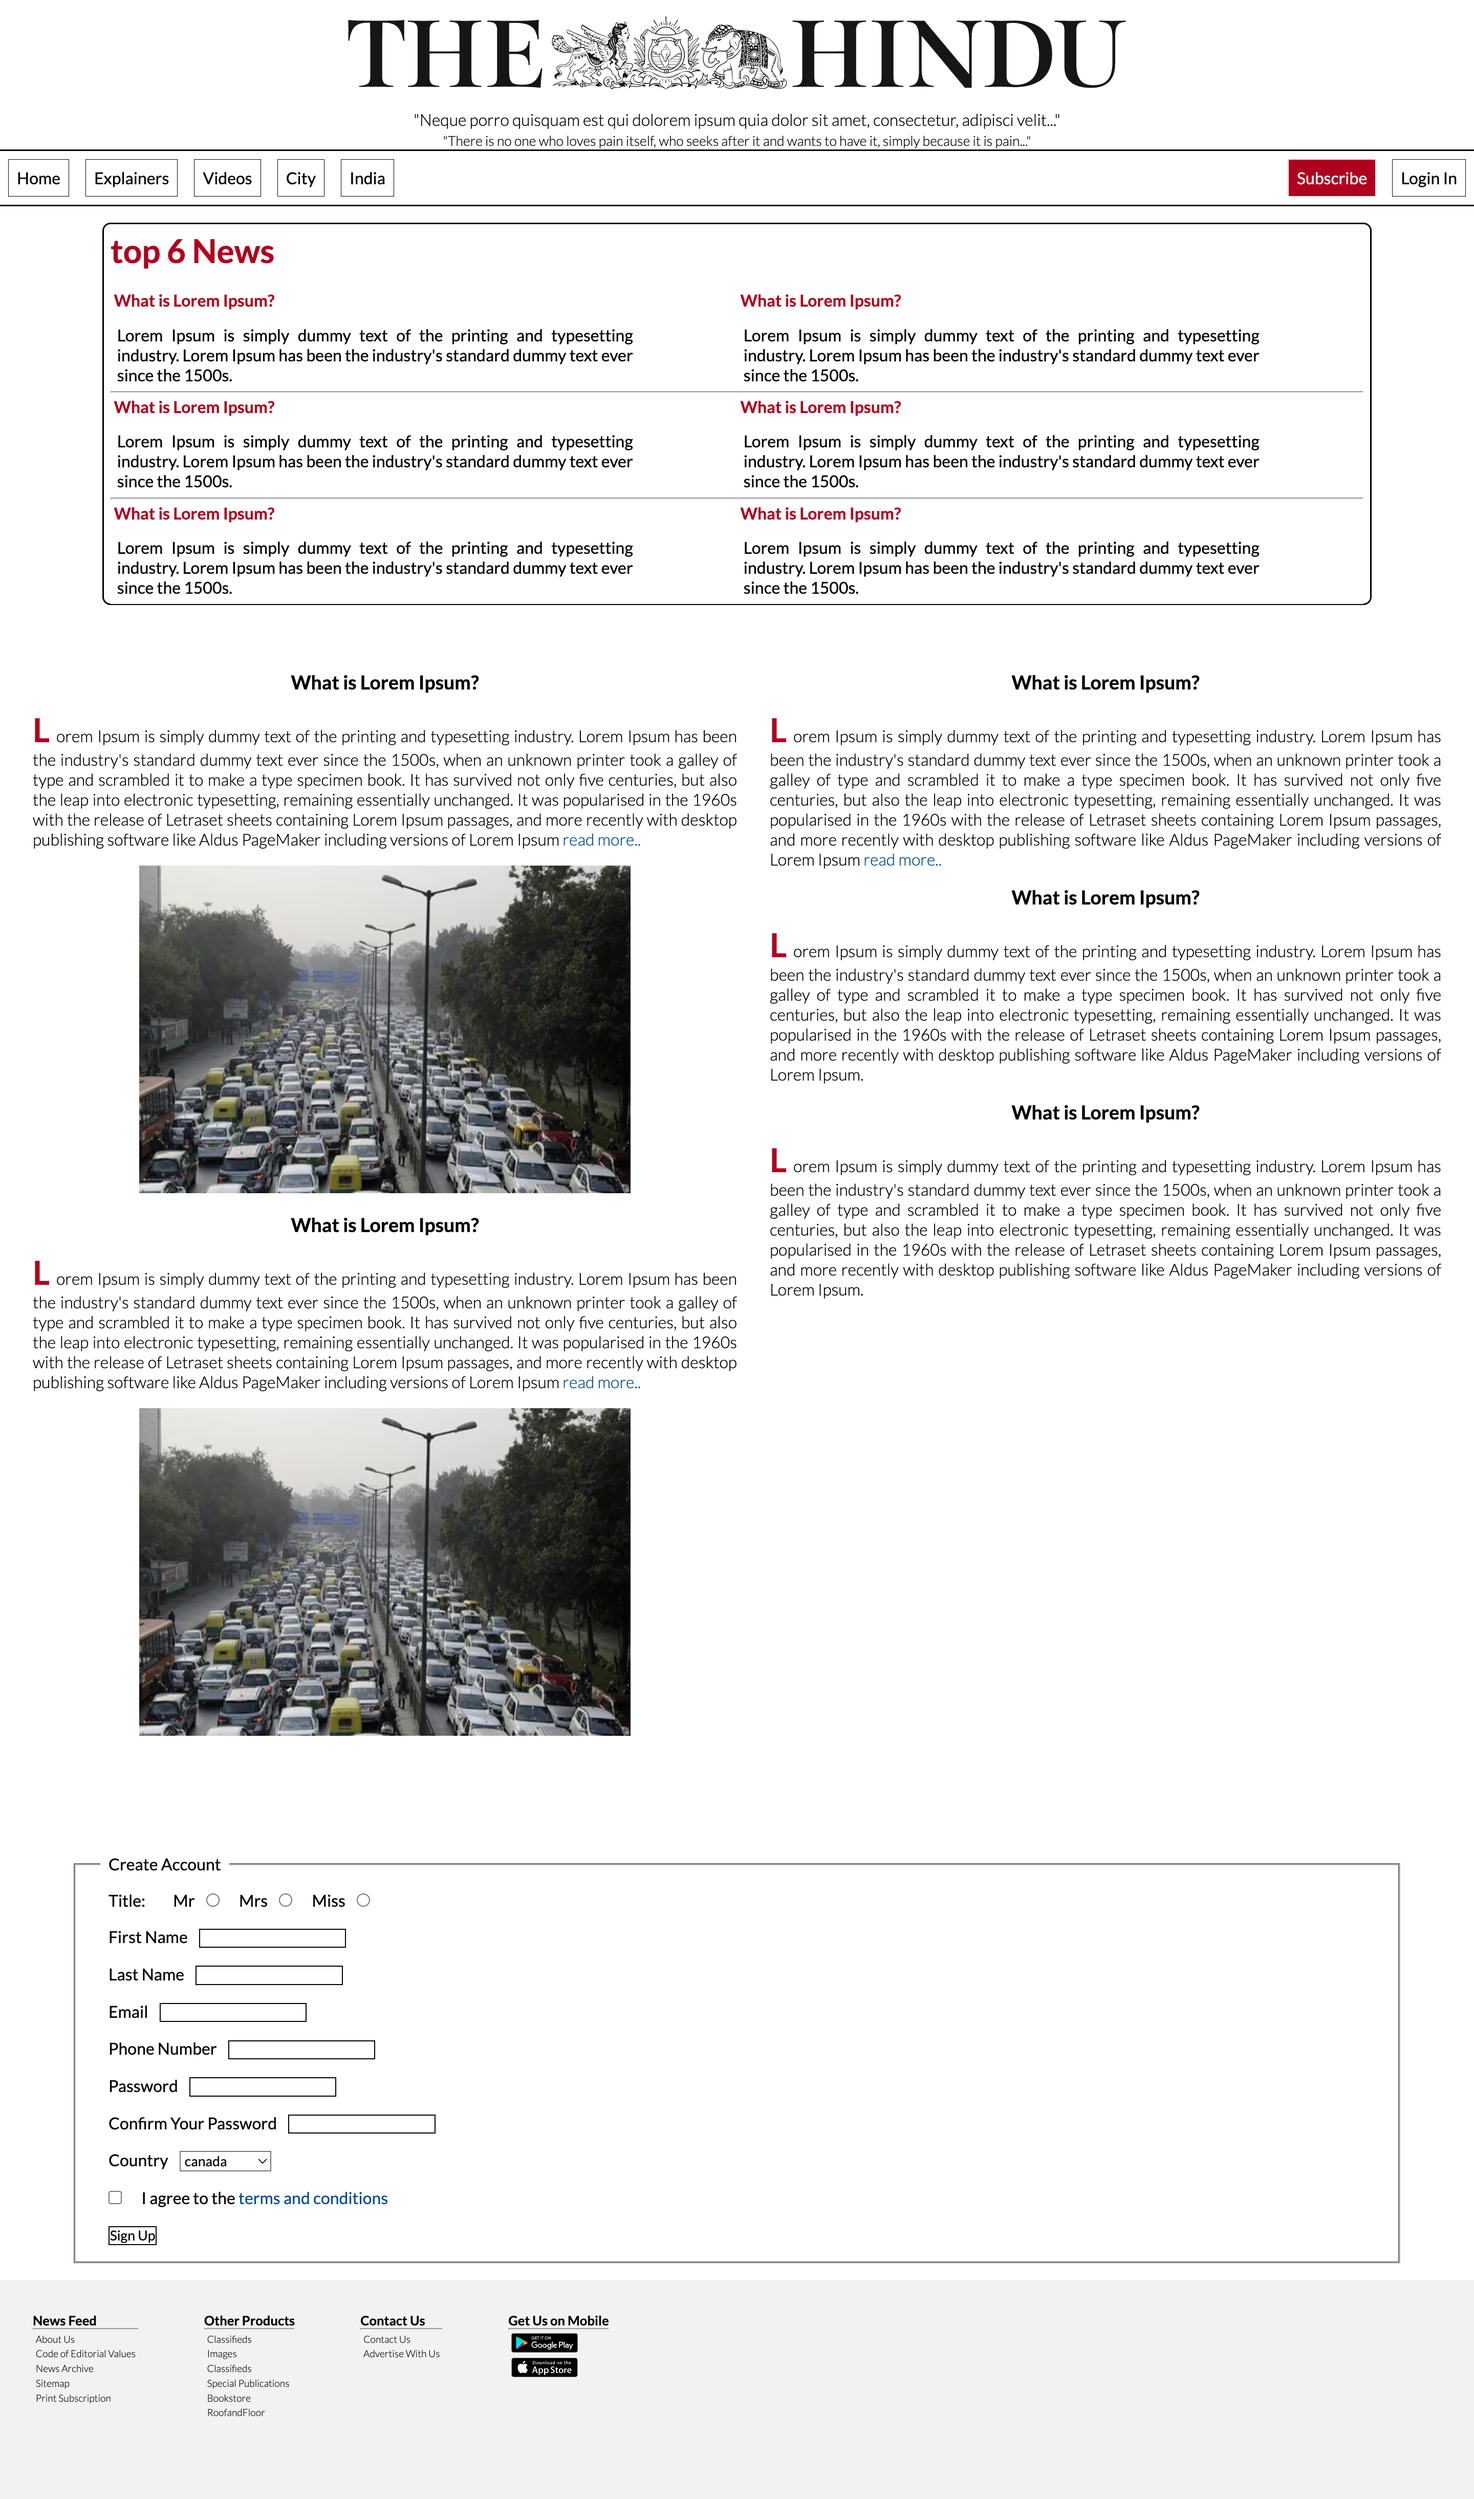
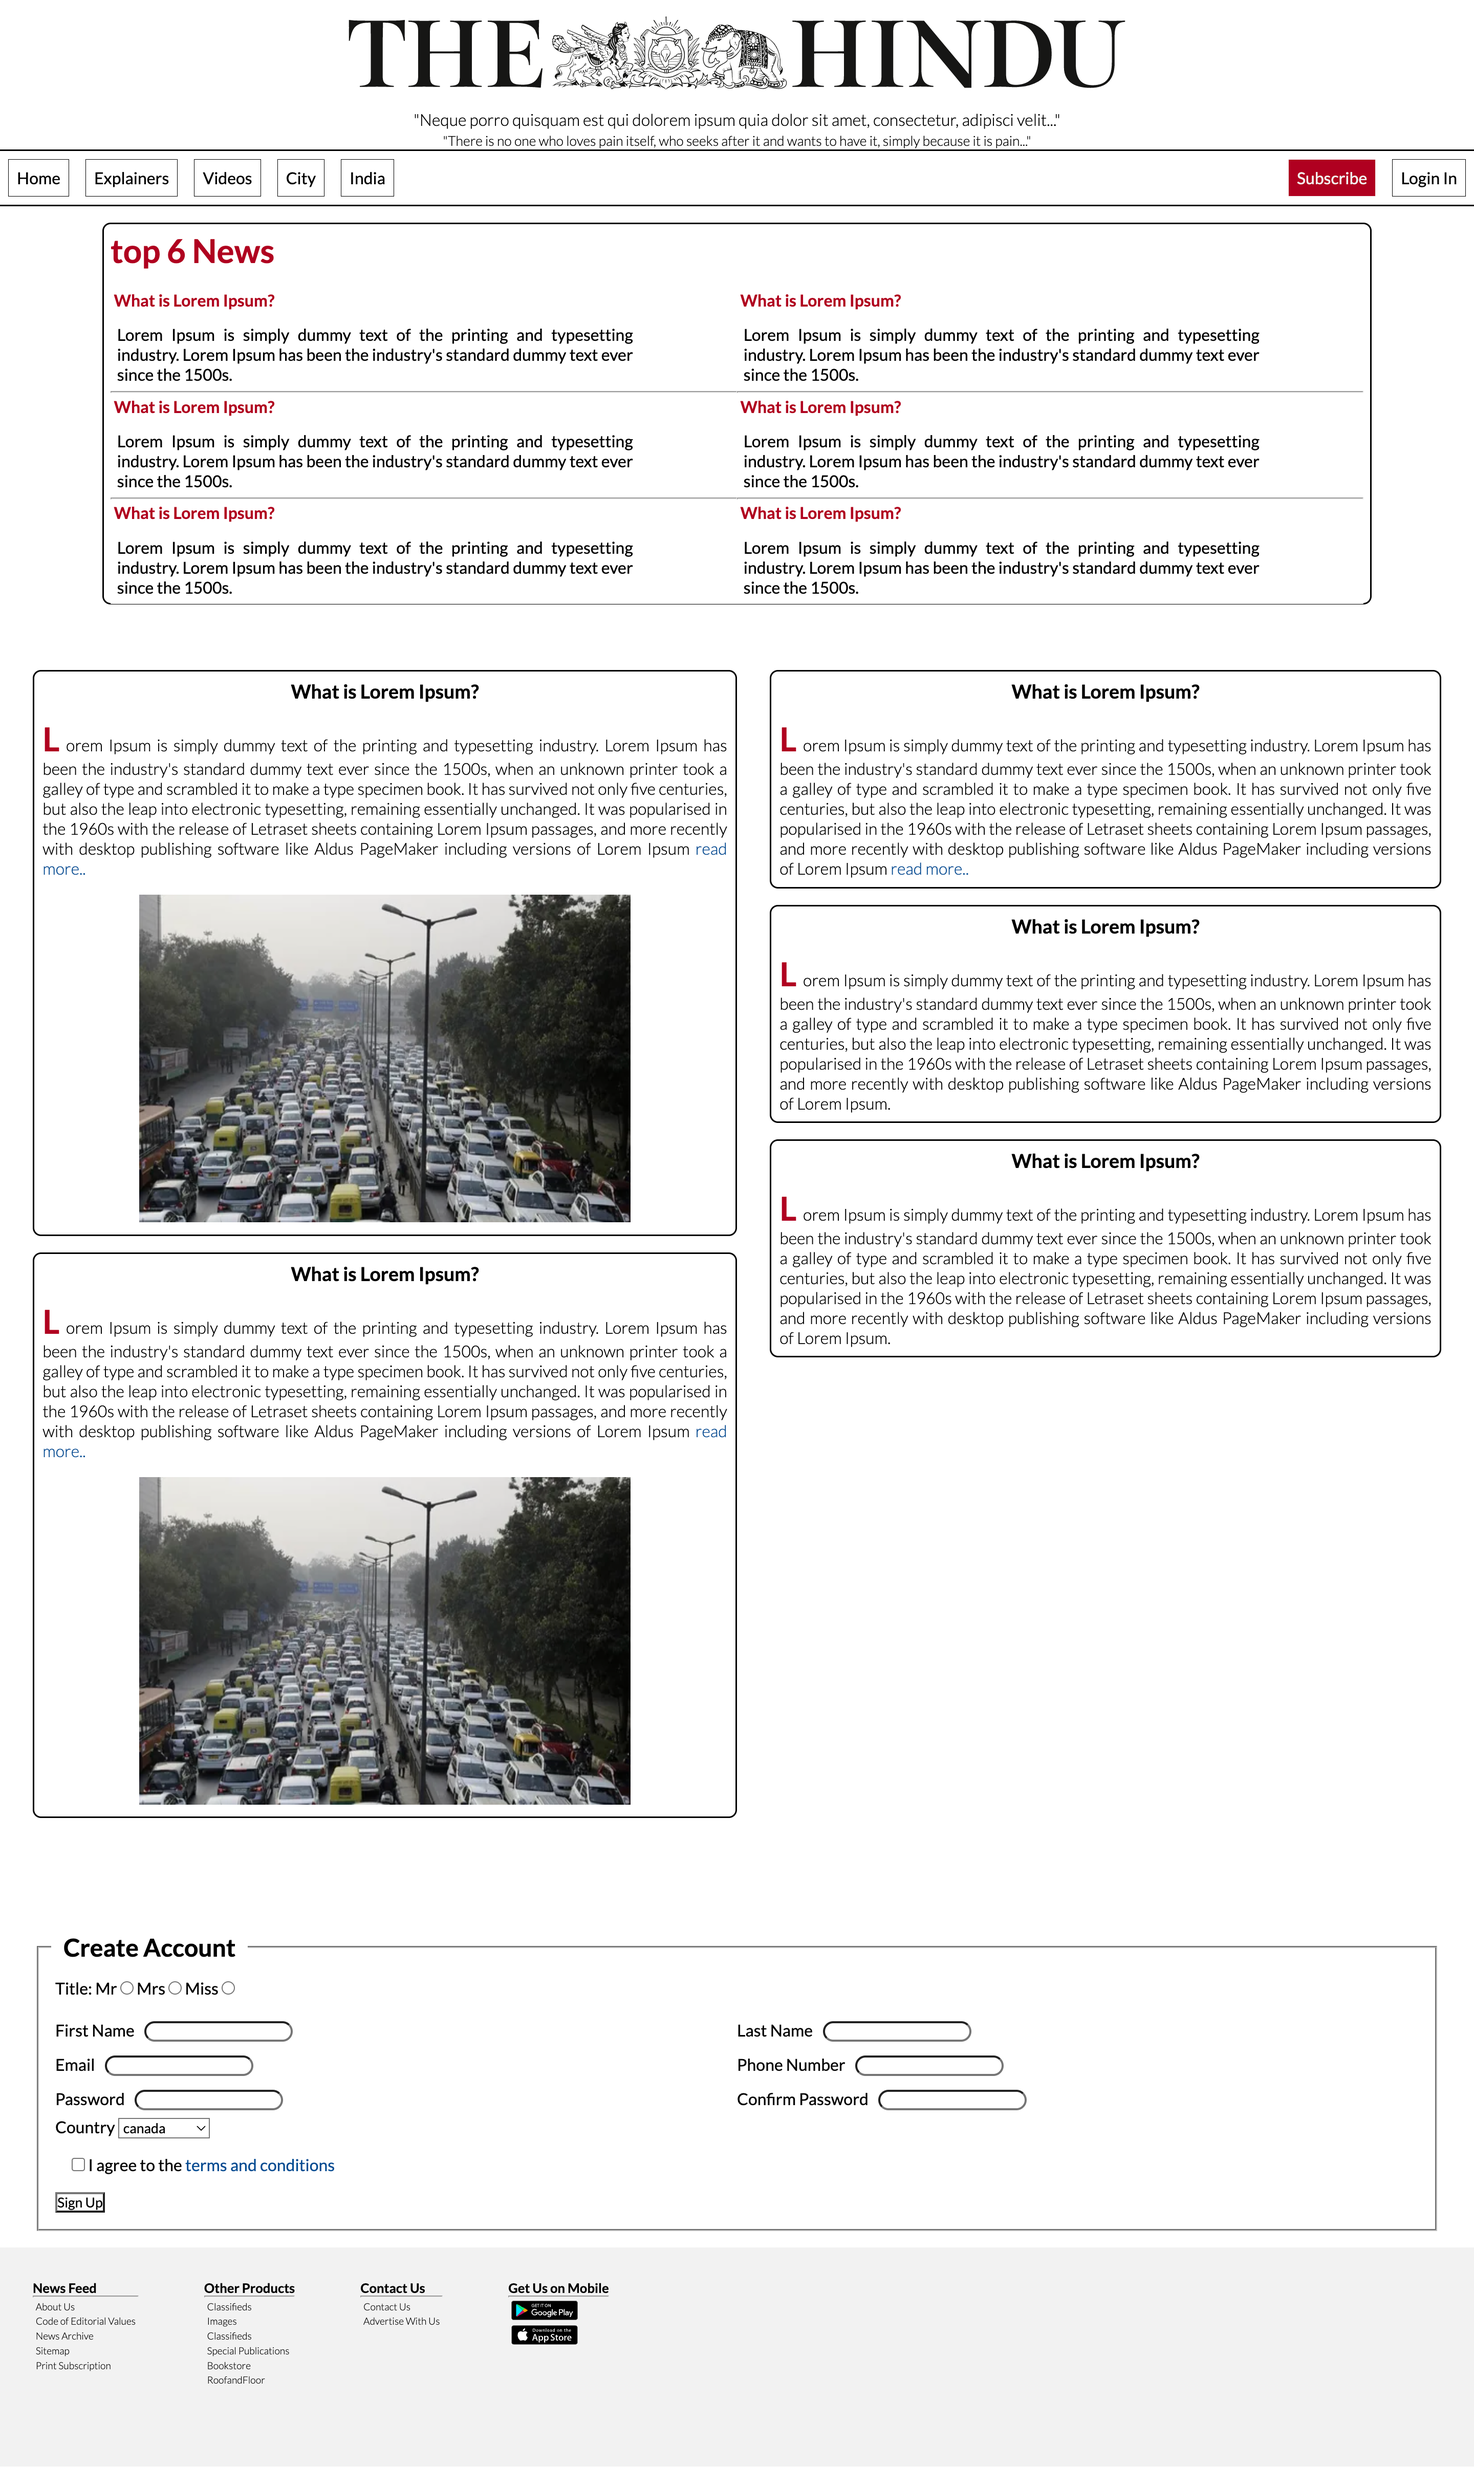
Modified Files: index.html, style.css Summary: Added more bisual changes and responsiveness, with updated desktop an mobile view screenshots.

diff --git a/Week-2/Ex 2.1/index.html b/Week-2/Ex 2.1/index.html
@@ -131,7 +131,7 @@
          <section class="form-section">
             <fieldset>
                <legend>Create Account</legend>
-               <form action="" method="post">
+               <form action="https://someurl.com" method="post">
                   <div id="title">
                      <label for="title">Title: </label>
                      <label for="Mr">Mr</label>
@@ -141,38 +141,40 @@
                      <label for="Miss">Miss</label>
                      <input type="radio" name="title" id="Miss">
                   </div>
-                  <div id="fname">
-                     <label for="fname">First Name</label>
-                     <input type="text" name="fname" id="fname" required>
-                  </div>
-                  <div id="lname">
-                     <label for="lname">Last Name</label>
-                     <input type="text" name="lname" id="lname" required>
-                  </div>
-                  <div  id="email">
-                     <label for="email">Email</label>
-                     <input type="email" name="email" id="email" pattern="^[\w-\.]+@([\w-]+\.)+[\w-]{2,4}$" required>
-                  </div>
-                  <div id="ph">
-                     <label for="ph">Phone Number</label>
-                     <input type="tel" name="ph" id="ph" pattern="[0-9]{10}" required>
-                  </div>
-                  <div id="pass">
-                     <label for="pass">Password</label>
-                     <input type="password" name="pass" id="pass" required>
-                  </div>
-                  <div id="conpass">
-                     <label for="conpass">Confirm Your Password</label>
-                     <input type="password" name="conpass" id="conpass" required>
-                  </div>
-                  <div id="country">
-                     <label for="country">Country</label>
-                     <select name="cars" id="cars">
-                        <option value="canada">canada</option>
-                        <option value="india">India</option>
-                        <option value="sri Lanka">Sri Lanka</option>
-                        <option value="bangladesh">Bangladesh</option>
-                     </select>
+                  <div class="form-grid">
+                     <div id="fname">
+                        <label for="fname">First Name</label>
+                        <input type="text" name="fname" id="fname" required>
+                     </div>
+                     <div id="lname">
+                        <label for="lname">Last Name</label>
+                        <input type="text" name="lname" id="lname" required>
+                     </div>
+                     <div  id="email">
+                        <label for="email">Email</label>
+                        <input type="email" name="email" id="email" pattern="^[\w-\.]+@([\w-]+\.)+[\w-]{2,4}$" required>
+                     </div>
+                     <div id="ph">
+                        <label for="ph">Phone Number</label>
+                        <input type="tel" name="ph" id="ph" pattern="[0-9]{10}" required>
+                     </div>
+                     <div id="pass">
+                        <label for="pass">Password</label>
+                        <input type="password" name="pass" id="pass" required>
+                     </div>
+                     <div id="conpass">
+                        <label for="conpass">Confirm Password</label>
+                        <input type="password" name="conpass" id="conpass" required>
+                     </div>
+                     <div id="country">
+                        <label for="country">Country</label>
+                        <select name="cars" id="cars">
+                           <option value="canada">canada</option>
+                           <option value="india">India</option>
+                           <option value="sri Lanka">Sri Lanka</option>
+                           <option value="bangladesh">Bangladesh</option>
+                        </select>
+                     </div>
                   </div>
                   <div id="checkbox">
                      <input type="checkbox" name="agree" id="agree" required>

diff --git a/Week-2/Ex 2.1/style.css b/Week-2/Ex 2.1/style.css
@@ -181,6 +181,9 @@ article {
     justify-content: center;
     align-items: center;
     margin-bottom: 1em;
+    border: 0.1em solid;
+    border-radius: 0.5em;
+    padding: 0.5em;
 }
 article img {
     height: 20em;
@@ -207,11 +210,32 @@ article p::first-letter {
     flex-direction: column;
     margin-top: 5em;
     padding: 1em;
-    width: 90vw;
+    width: 95vw;
 }
 
+.form-grid {
+display: grid;
+grid-template-columns: 1fr 1fr;
+grid-template-rows: 1fr 1fr;
+}
+
+/* .form-grid label {
+    margin: 1em;
+} */
+
+.form-grid > div > input{
+    margin: 0.5em;
+    border-radius: 1em;
+}
+
+/* .form-grid > div {
+    width: 2em;
+} */
+
 legend {
-    margin: 0 0.5em 0 1.5em;
+    font-weight: bold;
+    font-size: 1.5em;
+    margin: 0 0.5em 0 0.5em;
     padding: 0 0.5em 0 0.5em;
 }
 
@@ -219,7 +243,7 @@ form > div {
     margin: 1em;
 }
 
-form > div > label {
+/* form > div > label {
     font-weight: 400;
     font-size: 1em;
     margin: 0 0.5em 0 1em;
@@ -227,7 +251,8 @@ form > div > label {
 
 form > div > input {
     border: 0.1em solid;
-}
+    border-radius: 1em;
+} */
 
 input[type=checkbox], input[type=radio]{
     cursor: pointer;
@@ -237,9 +262,14 @@ input[type=checkbox], input[type=radio]{
     margin-left: 1.2em;
 }
 
-#signup-btn {
-    margin-left: 1.2em;
-}
+/* #submit {
+    border: 0.1em solid;
+    display: flex;
+    justify-content: center;
+    align-items: center;
+    width: 5em;
+    border-radius: 1em;
+} */
 
 #signup-btn:hover {
    background-color: antiquewhite;
@@ -282,16 +312,6 @@ footer > div > ul > li > img {
 height: 2em;
 }
 
- h6 {
-    background-color:  #F2F2F2;
-    font-size: 0.5em;
-    width: 100vw;
-    padding: 0 0 5em 0;
-    /* margin-bottom: 3em; */
-    /* padding-left: 10em; */
-}
-
-
 
 @media (width < 1080px) {
 
@@ -317,6 +337,59 @@ height: 2em;
         border-top: 0.2em solid;
     }
 
+    #nav-bar {
+        display: flex;
+        flex-direction: column;
+        width: 100vw;
+    }
+    
+    #left-nav-bar ul {
+        display: flex;
+        flex-direction: row;
+        justify-content: flex-start;
+        align-items: flex-start;
+        width: 100vw;
+        border-top: 0.1em solid;
+    }
+    
+    #right-nav-bar ul {
+        display: flex;
+        flex-direction: row;
+        justify-content: flex-start;
+        align-items: flex-start;
+        width: 100vw;
+        border-top: 0.1em solid;
+    }
+    
+    #nav-bar ul li {
+        list-style-type: none;  
+        margin: 0.5em;
+        border: 0.2px solid;
+        padding: 0.5em;
+        font-size: 1em;
+    
+    }
+    
+    
+    #nav-bar ul li:hover {
+        background-color: antiquewhite;
+    }
+    
+    #subscribe {
+        background-color: #B00020;
+        color: #F2F2F2;
+    }
+    
+    #subscribe:hover {
+        background-color: #F2F2F2;
+        color: #B00020;
+    }
+    
+    #login {
+    border: 00.2em solid  #B00020;
+    }
+
+    
     #container {
         display: flex;
         flex-direction: column;
@@ -357,6 +430,12 @@ height: 2em;
         margin-top: 1em;
         width: 90vw;
         margin-right: 1em;
+    }
+
+    article img {
+        height: 20em;
+        width: 25em;
+        margin: 1em 0 0 0;
     }
 
     .left-section {
@@ -463,7 +542,7 @@ height: 2em;
         display: flex;
         flex-direction: column;
         width: 60vw;
-        height: 60vh;
+        height: 70vh;
         align-items: center;
         border: 0.1em solid;
         border-radius: 0.5em;
@@ -481,7 +560,7 @@ height: 2em;
             text-align: justify;
             padding: 0.2em;
             margin: 0.2em;
-            width: 35vw;
+            width: 50vw;
         }
         
     article {
@@ -492,6 +571,12 @@ height: 2em;
         margin-top: 1em;
         width: 90vw;
         margin-right: 1em;
+    }
+
+    article img {
+        height: 20em;
+        width: 21em;
+        margin: 1em 0 0 0;
     }
 
     .left-section {
@@ -530,7 +615,7 @@ height: 2em;
     footer {
         background-color: #F2F2F2;
         width: 100vw;
-        height: 70vh;
+        height: 80vh;
         display: flex;
         flex-direction: column;
     }
